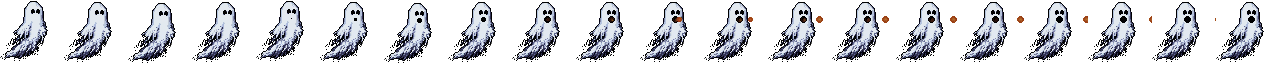
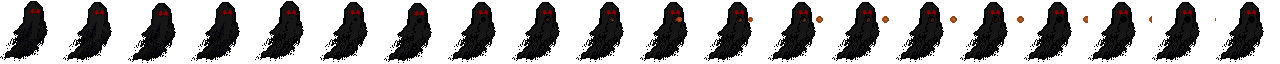
feat: added more player and zombies sprites

Changed region(s): [[0.0, 0.0312, 1.0, 0.9375]]

diff --git a/game/player.py b/game/player.py
@@ -1,7 +1,7 @@
 import pygame
 from game.constants import (
-    SCREEN_WIDTH, SCREEN_HEIGHT, BLUE, DARK_GRAY,
-    WEAPON_SINGLE
+    SCREEN_WIDTH, SCREEN_HEIGHT,
+    WEAPON_SINGLE, PLAYER_ANIMATIONS
 )
 from game.character import Character
 from game.weapon import Weapon
@@ -10,7 +10,23 @@ from game.weapon import Weapon
 class Player(Character):
     def __init__(self):
         super().__init__(hp=100, width=36, height=36)
-        self._draw_player_sprite()
+
+        # Animation state
+        self.current_state = "idle"
+        self.frame_index = 0
+        self.frame_timer = 0
+        self.frame_duration = 6
+        self.dying = False
+
+        # Load sprite sheet animations
+        self.animations = {}
+        for name, info in PLAYER_ANIMATIONS.items():
+            self.animations[name] = self._extract_frames_strip(
+                info["file"], info.get("frames")
+            )
+
+        self.image = self.animations["idle"][0]
+        self.rect = self.image.get_rect()
         self.rect.centerx = SCREEN_WIDTH // 2
         self.rect.bottom = SCREEN_HEIGHT - 80
 
@@ -22,12 +38,33 @@ class Player(Character):
         # Mouse drag state
         self.dragging = False
 
-    def _draw_player_sprite(self):
-        s = self.width
-        self.image.fill((0, 0, 0, 0))
-        pygame.draw.rect(self.image, BLUE, (s // 4, s // 4, s // 2, s // 2))
-        pygame.draw.circle(self.image, (100, 150, 255), (s // 2, s // 4), s // 5)
-        pygame.draw.rect(self.image, DARK_GRAY, (s // 2, 0, 4, s // 4))
+    def set_animation_state(self, state):
+        """Switch to a new animation. Resets frame to 0."""
+        if state == self.current_state:
+            return
+        if state not in self.animations:
+            return
+        self.current_state = state
+        self.frame_index = 0
+        self.frame_timer = 0
+
+    def _advance_animation(self):
+        """Advance the animation frame timer."""
+        self.frame_timer += 1
+        if self.frame_timer >= self.frame_duration:
+            self.frame_timer = 0
+            self.frame_index += 1
+
+            frames = self.animations[self.current_state]
+            if self.frame_index >= len(frames):
+                if self.current_state == "die":
+                    self.frame_index = len(frames) - 1
+                elif self.current_state == "hurt":
+                    self.set_animation_state("idle")
+                else:
+                    self.frame_index = 0
+
+        self.image = self.animations[self.current_state][self.frame_index]
 
     @property
     def damage(self):
@@ -52,11 +89,19 @@ class Player(Character):
             self.dragging = False
 
     def update(self, enemies, projectiles_group, all_sprites):
+        if self.dying:
+            self._advance_animation()
+            return
+
+        moving = False
+
         keys = pygame.key.get_pressed()
         if keys[pygame.K_LEFT] or keys[pygame.K_a]:
             self.move(-1)
+            moving = True
         if keys[pygame.K_RIGHT] or keys[pygame.K_d]:
             self.move(1)
+            moving = True
 
         # Mouse drag: follow mouse x position
         if self.dragging:
@@ -68,7 +113,16 @@ class Player(Character):
                     self.rect.left = 0
                 if self.rect.right > SCREEN_WIDTH:
                     self.rect.right = SCREEN_WIDTH
+                moving = True
 
+        # Set animation based on movement (only if not in hurt state)
+        if self.current_state != "hurt":
+            if moving:
+                self.set_animation_state("move")
+            else:
+                self.set_animation_state("idle")
+
+        self._advance_animation()
         self.auto_fire(enemies, projectiles_group, all_sprites)
 
     def auto_fire(self, enemies, projectiles_group, all_sprites):

diff --git a/game/constants.py b/game/constants.py
@@ -59,12 +59,28 @@ ENEMY_BOSS = "boss"
 
 # Enemy Animations
 
-ENEMY_ANIMATIONS = {
+SMALL_ZOMBIE_ANIMATIONS = {
+    "idle":   {"file": "game/assets/small-zombie/idle.png"},
+    "fly":    {"file": "game/assets/small-zombie/fly.png"},
+    "attack": {"file": "game/assets/small-zombie/attack.png"},
+    "hurt":   {"file": "game/assets/small-zombie/hurt.png"},
+    "die":    {"file": "game/assets/small-zombie/die.png"},
+}
+
+MEDIUM_ZOMBIE_ANIMATIONS = {
     "idle":   {"file": "game/assets/zombie/idle.png"},
     "fly":    {"file": "game/assets/zombie/fly.png"},
     "attack": {"file": "game/assets/zombie/attack.png"},
     "hurt":   {"file": "game/assets/zombie/hurt.png"},
     "die":    {"file": "game/assets/zombie/die.png"},
+}
+
+LARGE_ZOMBIE_ANIMATIONS = {
+    "idle":   {"file": "game/assets/large-zombie/idle.png"},
+    "fly":    {"file": "game/assets/large-zombie/fly.png"},
+    "attack": {"file": "game/assets/large-zombie/attack.png"},
+    "hurt":   {"file": "game/assets/large-zombie/hurt.png"},
+    "die":    {"file": "game/assets/large-zombie/die.png"},
 }
 
 BOSS_ANIMATIONS = {
@@ -75,11 +91,20 @@ BOSS_ANIMATIONS = {
     "die":    {"file": "game/assets/boss/die.png"},
 }
 
+# Player Animations
+
+PLAYER_ANIMATIONS = {
+    "idle":   {"file": "game/assets/player/idle.png"},
+    "move":   {"file": "game/assets/player/move.png"},
+    "hurt":   {"file": "game/assets/player/hurt.png"},
+    "die":    {"file": "game/assets/player/die.png"},
+}
+
 # Enemy Config: (width, height, base_hp, base_speed, gold_value)
 ENEMY_CONFIG = {
-    ENEMY_SMALL:    {"width": 24, "height": 24, "hp": 15,  "speed": 3.0, "gold": 1,  "damage": 12, "color": ZOMBIE_GREEN, "animations": ENEMY_ANIMATIONS},
-    ENEMY_MEDIUM:   {"width": 32, "height": 32, "hp": 40,  "speed": 2.4, "gold": 3,  "damage": 18, "color": ZOMBIE_DARK,  "animations": ENEMY_ANIMATIONS},
-    ENEMY_LARGE:    {"width": 44, "height": 44, "hp": 90,  "speed": 1.6, "gold": 8,  "damage": 25, "color": DARK_RED,     "animations": ENEMY_ANIMATIONS},
+    ENEMY_SMALL:    {"width": 32, "height": 32, "hp": 15,  "speed": 3.0, "gold": 1,  "damage": 12, "color": ZOMBIE_GREEN, "animations": SMALL_ZOMBIE_ANIMATIONS},
+    ENEMY_MEDIUM:   {"width": 44, "height": 44, "hp": 40,  "speed": 2.4, "gold": 3,  "damage": 18, "color": ZOMBIE_DARK,  "animations": MEDIUM_ZOMBIE_ANIMATIONS},
+    ENEMY_LARGE:    {"width": 56, "height": 56, "hp": 90,  "speed": 1.6, "gold": 8,  "damage": 25, "color": DARK_RED,     "animations": LARGE_ZOMBIE_ANIMATIONS},
     ENEMY_BOSS:     {"width": 64, "height": 64, "hp": 300, "speed": 1.0, "gold": 25, "damage": 40, "color": ZOMBIE_BOSS,  "animations": BOSS_ANIMATIONS},
 }
 

diff --git a/game/character.py b/game/character.py
@@ -34,23 +34,18 @@ class Character(pygame.sprite.Sprite):
         """Check collision with another sprite."""
         return pygame.sprite.collide_rect(self, other)
 
-    def _extract_frames_grid(self, sheet, row, num_frames, frame_w, frame_h):
-        """Slice one row of a sprite sheet into a list of Surfaces."""
-        frames = []
-        for col in range(num_frames):
-            rect = pygame.Rect(col * frame_w, row * frame_h, frame_w, frame_h)
-            frame = sheet.subsurface(rect).copy()
-            frames.append(frame)
-        return frames
-    
-    def _extract_frames_strip(self, filepath, num_frames):
+    def _extract_frames_strip(self, filepath, num_frames=None):
         """Load a horizontal strip image and slice it into frames."""
         strip = pygame.image.load(filepath).convert_alpha()
-        frame_w = strip.get_width() // num_frames
         frame_h = strip.get_height()
+        if num_frames is None:
+            num_frames = max(1, strip.get_width() // frame_h)
+        frame_w = strip.get_width() // num_frames
         frames = []
         for col in range(num_frames):
             rect = pygame.Rect(col * frame_w, 0, frame_w, frame_h)
             frame = strip.subsurface(rect).copy()
+            if (frame_w, frame_h) != (self.width, self.height):
+                frame = pygame.transform.scale(frame, (self.width, self.height))
             frames.append(frame)
         return frames

diff --git a/game/enemy.py b/game/enemy.py
@@ -48,22 +48,6 @@ class Zombie(Character):
         self.knockback_x = 0
         self.knockback_y = 0
 
-    def _extract_frames_strip(self, filepath, num_frames=None):
-        """Load a horizontal strip image and slice it into frames."""
-        strip = pygame.image.load(filepath).convert_alpha()
-        frame_h = strip.get_height()
-        if num_frames is None:
-            num_frames = max(1, strip.get_width() // frame_h)
-        frame_w = strip.get_width() // num_frames
-        frames = []
-        for col in range(num_frames):
-            rect = pygame.Rect(col * frame_w, 0, frame_w, frame_h)
-            frame = strip.subsurface(rect).copy()
-            if (frame_w, frame_h) != (self.width, self.height):
-                frame = pygame.transform.scale(frame, (self.width, self.height))
-            frames.append(frame)
-        return frames
-
     def _setup_animations(self):
         config = ENEMY_CONFIG[self.enemy_type]
         self.animations = {}

diff --git a/game/game.py b/game/game.py
@@ -356,7 +356,11 @@ class Game:
                                  count=20, color=RED)
             if self.player.health <= 0:
                 self.player.health = 0
+                self.player.dying = True
+                self.player.set_animation_state("die")
                 self.state = STATE_GAMEOVER
+            else:
+                self.player.set_animation_state("hurt")
 
         # Player -> Gates
         gates_hit = pygame.sprite.spritecollide(self.player, self.gates, False)
